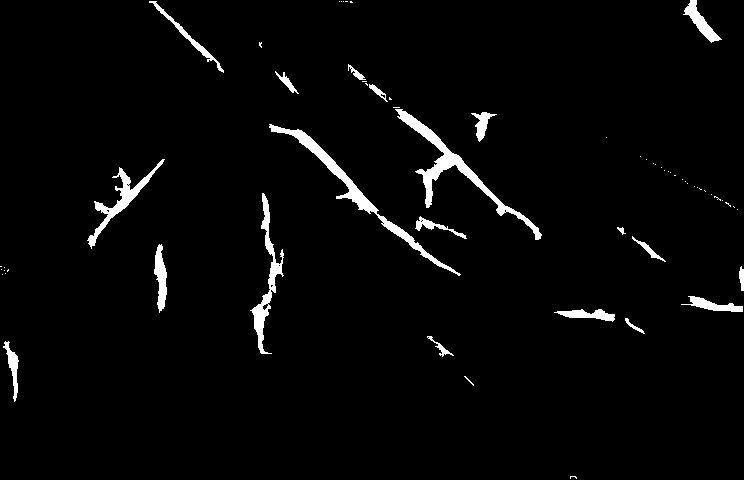
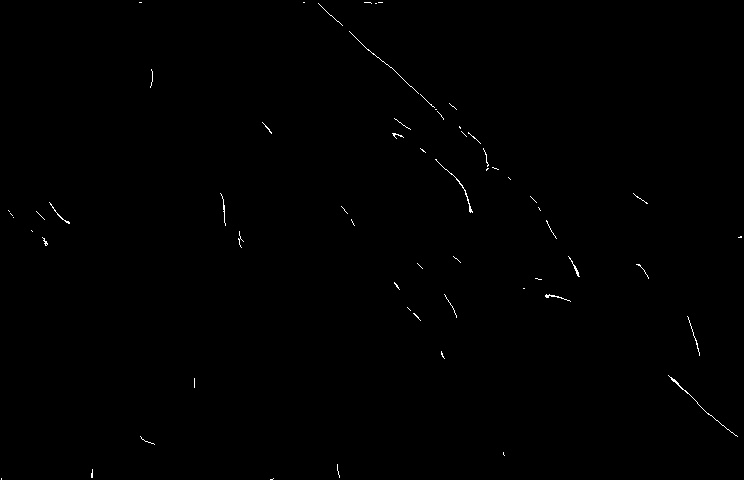
testing and fine tuning

diff --git a/findBloodVessels_enhanced.py b/findBloodVessels_enhanced.py
@@ -1,9 +1,10 @@
 # -*- coding: utf-8 -*-
 """
-Created on Wed Aug 10 14:49:37 2016
+Created on Sun Aug 14 10:10:38 2016
 
-@author: keisoku
+@author: queky
 """
+
 import hlpr
 import numpy as np
 import cv2  
@@ -18,7 +19,7 @@ def findRidge(scale,img):
     for i in range(len(scale)):
         scaled_img.append(hlpr.ScaledImage(img,scale[i]))
         ridge[:,:,i] = scaled_img[i].findRidge('curvature')
-        cv2.imwrite('output/findRidge_results/arm'+str(i)+'.jpg',scaled_img[i].getImg().astype(np.uint8)*np.invert(ridge[:,:,i]>0))
+        cv2.imwrite('output/findRidge_results/arm_enhanced'+str(i)+'.jpg',ridge[:,:,i].astype(np.uint8)*255)
     return ridge
     
 def ridgeStrength(scale,img):
@@ -37,10 +38,10 @@ def ridgeStrength(scale,img):
     ######################################################
     #bin1 = bin1.astype(np.uint8)*255
     #bin2 = bin2.astype(np.uint8)*255
-    bin4 = np.invert(bin3 > 0)
+    bin4 = (bin3 > 0).astype(np.uint8)*255
     #anaFunc.plotRidgeStrAlongScale(scale_deriv[:,:,2:-4],[(334,230),(293,291),(511,254),(394,350)])
     
-    #coords = anaFunc.getNeighbourCoords((415,88),3)    #(481, 223),(632, 333),(415, 88)(522, 190)(491, 251)(622, 325)
+    #coords = anaFunc.getNeighbourCoords((481,223),5)    #(481, 223),(632, 333),(415, 88)
     #anaFunc.plotRidgeStrAlongScale(scale_deriv[:,:,1:-1],coords)
     
     #anaFunc.plotRidgeStrAlongScale(ridge_str_cuboid.cuboid,coords)
@@ -49,7 +50,7 @@ def ridgeStrength(scale,img):
     #    cv2.imwrite('output/ridgeStrength_results/bin_one'+str(i)+'.jpg',bin1[:,:,i])
     for i in range(len(scale)-1):
         #cv2.imwrite('output/ridgeStrength_results/bin_two'+str(i)+'.jpg',bin2[:,:,i])
-        cv2.imwrite('output/ridgeStrength_results/arm'+str(i)+'.jpg',img*bin4[:,:,i])
+        cv2.imwrite('output/ridgeStrength_results/arm_enhanced'+str(i)+'.jpg',bin4[:,:,i])
     return bin3
     
 def connectRidgePeaks(cuboid):
@@ -77,22 +78,22 @@ def nStrongestRidges(n,ridges):
     return strongest
         
 img = cv2.imread('input/IR3/test3.bmp',cv2.IMREAD_GRAYSCALE)
-#img = cv2.pyrDown(img)
+img = test.enhanceRidges(img[:,300:].astype(np.float64))
 
-scale = np.arange(1,200,5)
+scale = np.arange(1,250,5)
 ridge_cuboid = findRidge(scale,img)
 ridge_str_peak = ridgeStrength(scale,img)
-bin = ridge_cuboid[:,:,:-1]*ridge_str_peak**(0.25)
 
+#bin = ridge_cuboid[:,:,:-1]*ridge_str_peak**(0.25)
 #bin2 = (bin > 0).astype(np.uint8)*255
 #for i in range(np.size(bin2,2)):
 #    cv2.imwrite('output/findBloodVessels_results/arm_big_interval'+str(i)+'.jpg',bin2[:,:,i])
-
+"""
 ridges = connectRidgePeaks(bin[:,:,2:-2])
-strongest = nStrongestRidges(10,ridges)
+strongest = nStrongestRidges(100,ridges)
 i = 0
 for ridge in strongest:
-    cv2.imwrite('output/strongest_results/arm'+str(i)+'.jpg',ridge.getImg())
+    cv2.imwrite('output/strongest_results/arm_enhanced'+str(i)+'.jpg',ridge.getImg())
     i += 1
 
 combined = np.zeros(np.shape(img))
@@ -100,4 +101,5 @@ for ridge in strongest:
     combined += ridge.getImg()
 combined = combined > 0
 combined = combined.astype(np.uint8)*255
-cv2.imwrite('combined_arm.jpg',combined)
+cv2.imwrite('combined_arm_enhanced.jpg',combined)
+"""

diff --git a/hlpr.py b/hlpr.py
@@ -168,12 +168,12 @@ class ScaledImage(object):
             Lpp = sin_beta**2*Lxx - 2*sin_beta*cos_beta*Lxy - cos_beta**2*Lyy
             Lqq = cos_beta**2*Lxx + 2*sin_beta*cos_beta*Lxy + sin_beta**2*Lyy
             
-            #bin1 = Lq.astype(np.int32) == 0
+            #bin1 = np.around(Lq) == 0
             bin1 = zeroCross(Lq)
             bin2 = Lqq >= 0
             bin3 = abs(Lqq) >= abs(Lpp)
             bin4 = np.logical_and(bin3,np.logical_and(bin1,bin2))
-    
+            
             return bin4
             
         temp = np.sqrt(Lx**2 + Ly**2)
@@ -195,6 +195,7 @@ class ScaledImage(object):
         return bin1*bin2
 
     def getRidgeStrength(self):
+        gamma = 0.75
         scale = self.getScale()
         #Lx = self.getSobelx()
         #Ly = self.getSobely()
@@ -207,7 +208,9 @@ class ScaledImage(object):
         Lxx = self.getDerivXX()
         Lyy = self.getDerivYY()
         Lxy = self.getDerivXY() 
-        return scale**3*(Lxx+Lyy)**2*((Lxx-Lyy)**2+4*Lxy**2)
+        #return scale**3*(Lxx+Lyy)**2*((Lxx-Lyy)**2+4*Lxy**2)
+        #return scale**(1.5)*((Lxx-Lyy)**2+4*Lxy**2)
+        return scale**gamma/2*(Lxx+Lyy+np.sqrt((Lxx-Lyy)**2+4*Lxy**2))
 
 class RidgeStrCuboid(object):
     def __init__(self,img,scale):
@@ -277,7 +280,12 @@ class Ridge(object):
         y = pixel.coord[0]
         x = pixel.coord[1]
         t = pixel.coord[2]
-        adjacentCoord = ((y-1,x,t),(y+1,x,t),(y,x-1,t),(y,x+1,t),(y,x,t-1),(y,x,t+1))
+        adjacentCoord = ((y-1,x,t),(y+1,x,t),(y,x-1,t),(y,x+1,t),(y,x,t-1),(y,x,t+1),
+                         (y-1,x-1,t-1),(y-1,x,t-1),(y-1,x+1,t-1),(y-1,x-1,t),(y-1,x+1,t),
+                         (y-1,x-1,t+1),(y-1,x,t+1),(y-1,x+1,t+1),(y,x-1,t-1),(y,x+1,t-1),
+                         (y,x-1,t+1),(y,x+1,t+1),
+                         (y+1,x-1,t-1),(y+1,x,t-1),(y+1,x+1,t-1),(y+1,x-1,t),(y+1,x+1,t),
+                         (y+1,x-1,t+1),(y+1,x,t+1),(y+1,x+1,t+1))
         for coord in adjacentCoord:
             if sum(np.array(coord) < 0) > 0:    # Don't check negative coordinates
                 continue

diff --git a/test.py b/test.py
@@ -14,6 +14,11 @@ def normAxis2(cuboid):  #returns 3d array normalized along 3rd axis
     max_val = max_val[:,:,np.newaxis]
     max_val = np.tile(max_val,(1,1,np.size(cuboid,2)))
     return cuboid/max_val
+    
+def enhanceRidges(img):
+    temp = img**10
+    temp2 = temp/np.amax(temp)*255
+    return temp2
 
 """
 cuboid = np.array([[[3,99,17],[15,337,945],[53,974,258]],[[47,2,97],[41,65,0],[41,57,62]],[[7,24,721],[67,25,44],[74,52,68]]])
